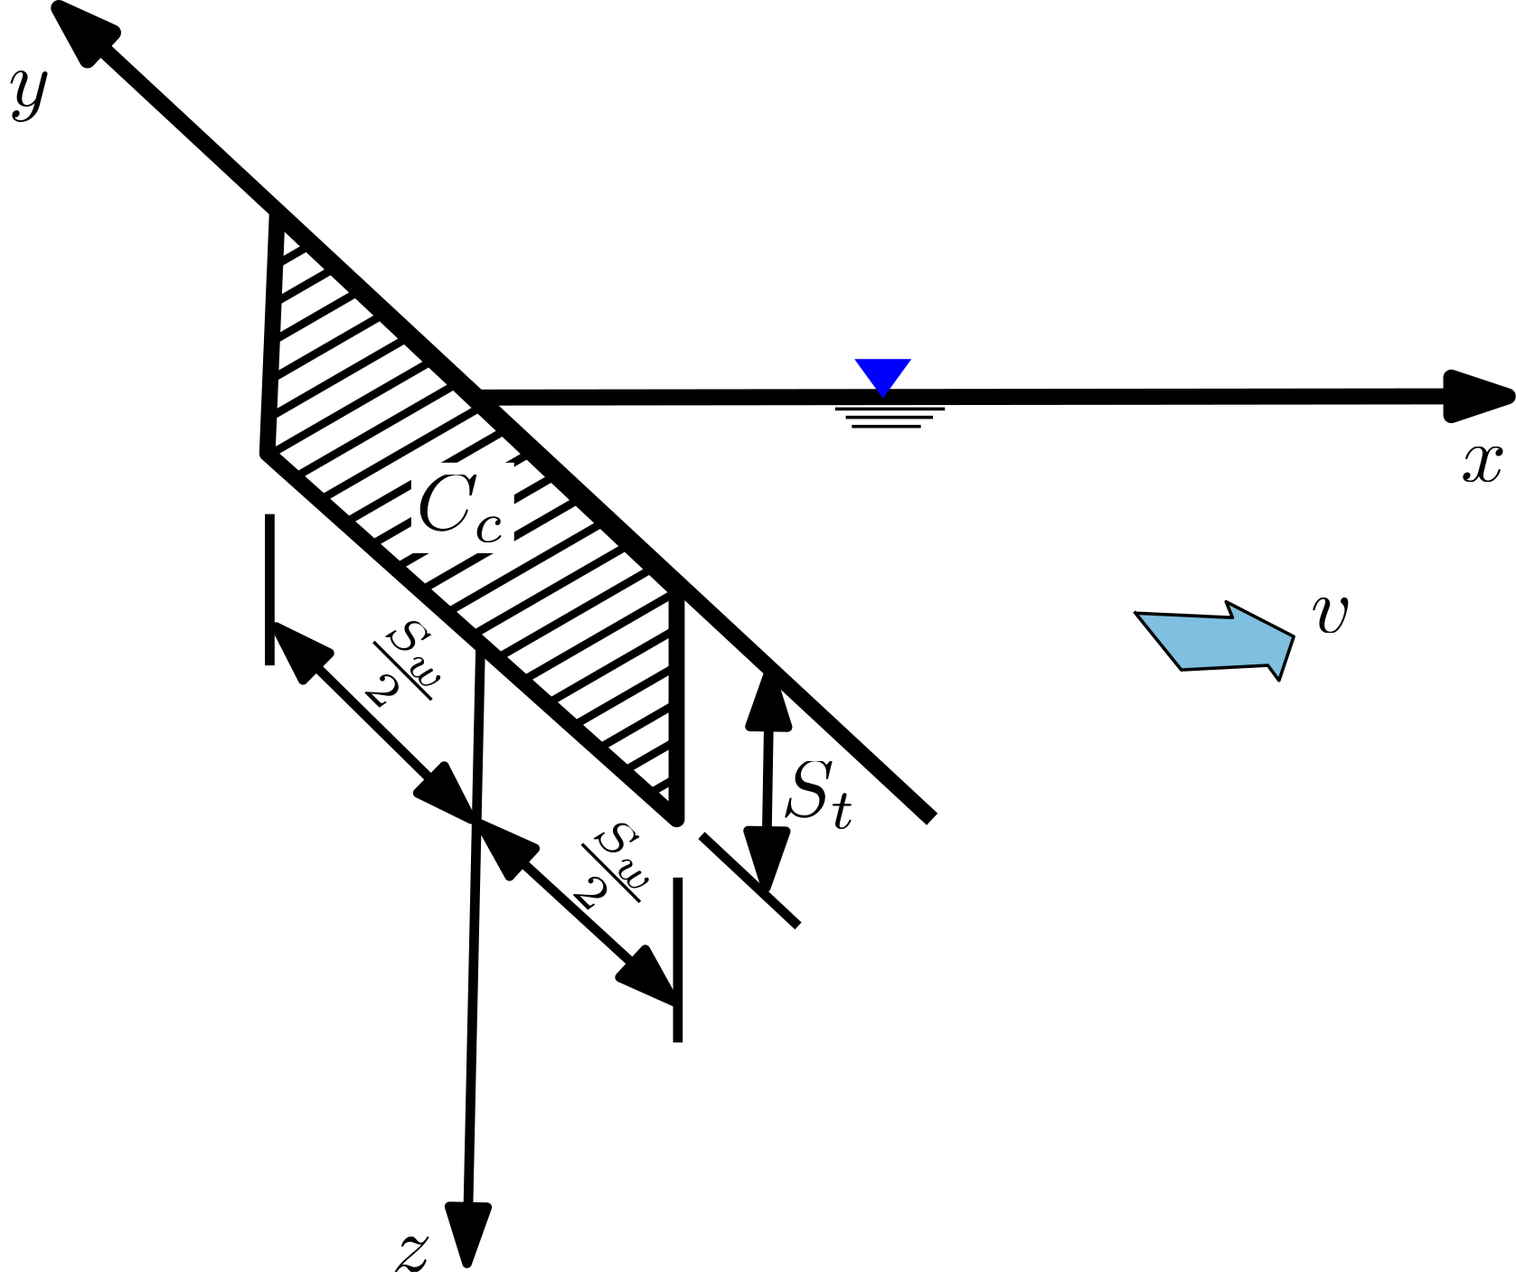
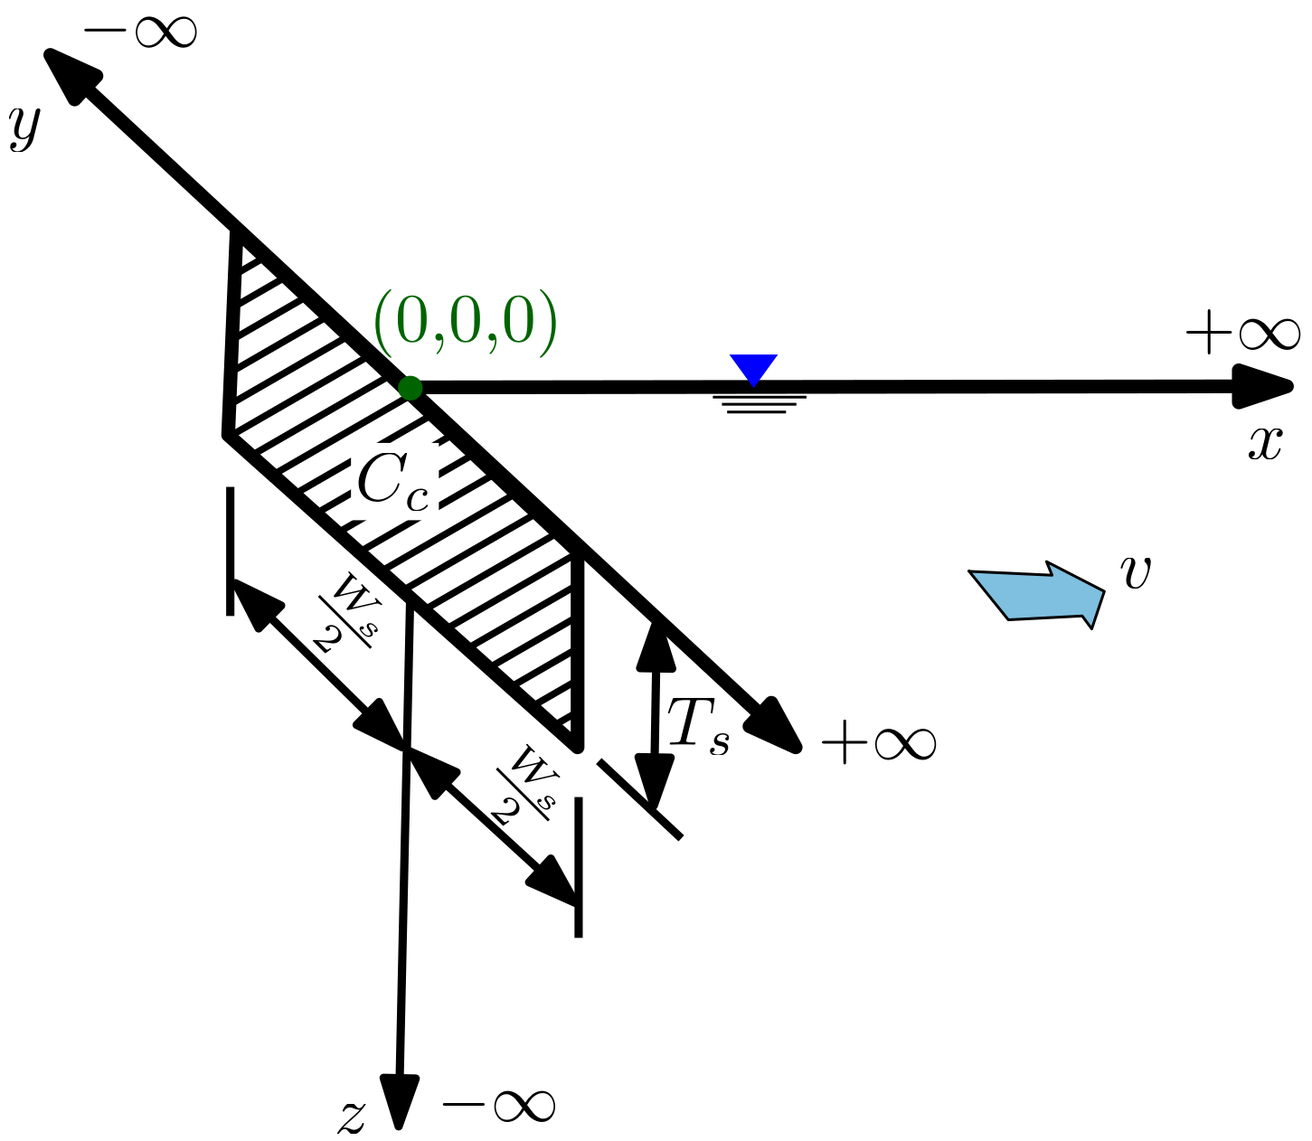
BIOSCREEN conceptual figure from the manual; subscript is lowercase
Replaces static/images/conceptual_bioscreen.png with fig3.6-i from the manual.
Same diagram, current notation: T_s and W_s where the old one had S_t and S_w,
plus the origin and the axis limits. The file is shared with the BIOSCREEN
single and multiple workbench pages, so all three now show it - leaving them on
the old drawing would have contradicted the symbol they display.

The subscript follows it down to lowercase: T_s, not T_S. That is how the
figure writes it, and how the request did.

diff --git a/templates/about_birla.html b/templates/about_birla.html
@@ -27,11 +27,11 @@ of numerical simulations (MODFLOW&ndash;MTSDMS).</p>
     <mo>=</mo>
     <mrow>
       <mo>(</mo>
-      <mn>1</mn><mo>&minus;</mo><mn>0.047</mn><msup><msub><mi>T</mi><mi>S</mi></msub><mn>0.404</mn></msup><msup><msub><mi>R</mi><mi>c</mi></msub><mn>1.883</mn></msup>
+      <mn>1</mn><mo>&minus;</mo><mn>0.047</mn><msup><msub><mi>T</mi><mi>s</mi></msub><mn>0.404</mn></msup><msup><msub><mi>R</mi><mi>c</mi></msub><mn>1.883</mn></msup>
       <mo>)</mo>
     </mrow>
     <mfrac>
-      <mrow><mn>4</mn><msup><msub><mi>T</mi><mi>S</mi></msub><mn>2</mn></msup></mrow>
+      <mrow><mn>4</mn><msup><msub><mi>T</mi><mi>s</mi></msub><mn>2</mn></msup></mrow>
       <mrow><msup><mi>&pi;</mi><mn>2</mn></msup><msub><mi>&alpha;</mi><mi>Tv</mi></msub></mrow>
     </mfrac>
     <mi>ln</mi><mo>&#8289;</mo>
@@ -49,7 +49,7 @@ of numerical simulations (MODFLOW&ndash;MTSDMS).</p>
 {% endblock %}
 
 {% block about_parameters %}
-<dt><math><msub><mi>T</mi><mi>S</mi></msub></math></dt><dd>Source thickness (equal to aquifer thickness) (m)</dd>
+<dt><math><msub><mi>T</mi><mi>s</mi></msub></math></dt><dd>Source thickness (equal to aquifer thickness) (m)</dd>
 <dt><math><msub><mi>&alpha;</mi><mi>Tv</mi></msub></math></dt><dd>Vertical transverse dispersivity (m)</dd>
 <dt><math><msub><mi>R</mi><mi>c</mi></msub></math></dt><dd>Recharge rate (m/yr)</dd>
 <dt><math><mi>&gamma;</mi></math></dt><dd>Stoichiometry coefficient (-)</dd>

diff --git a/templates/about_liedl3d.html b/templates/about_liedl3d.html
@@ -39,7 +39,7 @@ any chosen contour along the <math><mi>x</mi></math>-axis.</p>
       <mrow>
         <mo>−</mo><msub title="Transverse vertical dispersivity [L]"><mi>α</mi><mrow><mi>T</mi><mi>v</mi></mrow></msub><msub title="Maximum plume length [L]"><mi>L</mi><mi mathvariant="normal">max</mi></msub>
         <msup>
-          <mrow><mo>(</mo><mfrac><mi>π</mi><mrow><mn>2</mn><msub title="Source thickness [L]"><mi>T</mi><mi>S</mi></msub></mrow></mfrac><mo>)</mo></mrow>
+          <mrow><mo>(</mo><mfrac><mi>π</mi><mrow><mn>2</mn><msub title="Source thickness [L]"><mi>T</mi><mi>s</mi></msub></mrow></mfrac><mo>)</mo></mrow>
           <mn>2</mn>
         </msup>
       </mrow>
@@ -61,7 +61,7 @@ Newton's method.</p>
 {% endblock %}
 
 {% block about_parameters %}
-<dt><math><msub><mi>T</mi><mi>S</mi></msub></math></dt><dd>Source thickness [L]</dd>
+<dt><math><msub><mi>T</mi><mi>s</mi></msub></math></dt><dd>Source thickness [L]</dd>
 <dt><math><msub><mi>S</mi><mi>W</mi></msub></math></dt><dd>Source width [L]</dd>
 <dt><math><msub><mi>α</mi><mrow><mi>T</mi><mi>h</mi></mrow></msub></math></dt><dd>Transverse horizontal dispersivity [L]</dd>
 <dt><math><msub><mi>α</mi><mrow><mi>T</mi><mi>v</mi></mrow></msub></math></dt><dd>Transverse vertical dispersivity [L]</dd>

diff --git a/templates/about_liedl.html b/templates/about_liedl.html
@@ -38,7 +38,7 @@ reaction confined to the plume fringe.</p>
     <msub title="Maximum steady-state plume length [L]"><mi>L</mi><mi mathvariant="normal">max</mi></msub>
     <mo>=</mo>
     <mfrac>
-      <mrow><mn>4</mn><msup><msub title="Source thickness [L]"><mi>T</mi><mi>S</mi></msub><mn>2</mn></msup></mrow>
+      <mrow><mn>4</mn><msup><msub title="Source thickness [L]"><mi>T</mi><mi>s</mi></msub><mn>2</mn></msup></mrow>
       <mrow><msup><mi>π</mi><mn>2</mn></msup><msub title="Transverse vertical dispersivity [L]"><mi>α</mi><mrow><mi>T</mi><mi>v</mi></mrow></msub></mrow>
     </mfrac>
     <mi>ln</mi><mo>&#8289;</mo>
@@ -56,7 +56,7 @@ reaction confined to the plume fringe.</p>
 {% endblock %}
 
 {% block about_parameters %}
-<dt><math><msub><mi>T</mi><mi>S</mi></msub></math></dt><dd>Source thickness [L]</dd>
+<dt><math><msub><mi>T</mi><mi>s</mi></msub></math></dt><dd>Source thickness [L]</dd>
 <dt><math><msub><mi>α</mi><mrow><mi>T</mi><mi>v</mi></mrow></msub></math></dt><dd>Transverse vertical dispersivity [L]</dd>
 <dt><math><mi>γ</mi></math></dt><dd>Stoichiometry ratio [-]</dd>
 <dt><math><msubsup><mi>C</mi><mi>D</mi><mn>0</mn></msubsup></math></dt><dd>Donor concentration at source [ML⁻³]</dd>

diff --git a/templates/panel_numerical_vertical_single.html b/templates/panel_numerical_vertical_single.html
@@ -32,7 +32,7 @@
     <p class="small">The simulation domain is sized from the analytical solution, so you never enter it. The maximum plume length is <i>L</i><sub>max</sub> = (4&nbsp;<i>T</i><sub>A</sub>²) / (π²&nbsp;α<sub>Tv</sub>)&nbsp;·&nbsp;ln[(4γ<i>C</i><sub>D</sub>&nbsp;+&nbsp;<i>C</i><sub>A</sub>) / (π&nbsp;<i>C</i><sub>A</sub>)] (vertical Liedl-type solution, using aquifer thickness <i>T</i><sub>A</sub>, vertical transverse dispersivity α<sub>Tv</sub>, donor/acceptor concentrations and γ). <b>Domain Length <i>L</i><sub>D</sub></b> = 1.5&nbsp;·&nbsp;<i>L</i><sub>max</sub> (a 50% downstream margin).</p>
   </div>
   {% endif %}
-  <p class="small conceptual-note">Vertical configuration: cross-section (<i>x</i>, <i>z</i>) with aquifer thickness <i>T</i><sub>A</sub>, source thickness <i>T</i><sub>S</sub>, and vertical transverse dispersivity α<sub>Tv</sub>.</p>
+  <p class="small conceptual-note">Vertical configuration: cross-section (<i>x</i>, <i>z</i>) with aquifer thickness <i>T</i><sub>A</sub>, source thickness <i>T</i><sub>s</sub>, and vertical transverse dispersivity α<sub>Tv</sub>.</p>
   </div>
 </div>
 {% endblock %}

diff --git a/templates/about_maier.html b/templates/about_maier.html
@@ -28,7 +28,7 @@ using a numerical model.</p>
     <msub><mi>L</mi><mi>max</mi></msub>
     <mo>=</mo>
     <mn>0.5</mn>
-    <mfrac><msup><msub><mi>T</mi><mi>S</mi></msub><mn>2</mn></msup><msub><mi>&alpha;</mi><mi>Tv</mi></msub></mfrac>
+    <mfrac><msup><msub><mi>T</mi><mi>s</mi></msub><mn>2</mn></msup><msub><mi>&alpha;</mi><mi>Tv</mi></msub></mfrac>
     <msup>
       <mrow>
         <mo>(</mo>
@@ -45,7 +45,7 @@ using a numerical model.</p>
 {% endblock %}
 
 {% block about_parameters %}
-<dt><math><msub><mi>T</mi><mi>S</mi></msub></math></dt><dd>Source thickness (equal to aquifer thickness) (m)</dd>
+<dt><math><msub><mi>T</mi><mi>s</mi></msub></math></dt><dd>Source thickness (equal to aquifer thickness) (m)</dd>
 <dt><math><msub><mi>&alpha;</mi><mi>Tv</mi></msub></math></dt><dd>Vertical transverse dispersivity (m)</dd>
 <dt><math><mi>&gamma;</mi></math></dt><dd>Stoichiometry coefficient (-)</dd>
 <dt><math><msubsup><mi>C</mi><mi>A</mi><mn>0</mn></msubsup></math></dt><dd>Acceptor concentration at source (mg/L)</dd>

diff --git a/templates/about_bioscreen.html b/templates/about_bioscreen.html
@@ -28,7 +28,7 @@
 <dt><math><msubsup><mi>C</mi><mi>D</mi><mn>0</mn></msubsup></math></dt><dd>Contamination concentration [ML&#8315;&#179;]</dd>
 <dt><math><msub><mi>C</mi><mi>D</mi></msub></math></dt><dd>General contaminant concentration [ML&#8315;&#179;]</dd>
 <dt><math><msub><mi>S</mi><mi>W</mi></msub></math></dt><dd>Source width [L]</dd>
-<dt><math><msub><mi>T</mi><mi>S</mi></msub></math></dt><dd>Source thickness (depth) [L]</dd>
+<dt><math><msub><mi>T</mi><mi>s</mi></msub></math></dt><dd>Source thickness (depth) [L]</dd>
 <dt><math><mi>v</mi></math></dt><dd>Groundwater seepage velocity [LT&#8315;&#185;]</dd>
 <dt><math><msub><mi>&#945;</mi><mi>L</mi></msub></math>, <math><msub><mi>&#945;</mi><mi>Th</mi></msub></math>, <math><msub><mi>&#945;</mi><mi>Tv</mi></msub></math></dt><dd>Longitudinal, horizontal-transverse, and vertical-transverse dispersivity [L]</dd>
 <dt><math><mi>R</mi></math></dt><dd>Retardation factor [-]</dd>

diff --git a/param_meta.py b/param_meta.py
@@ -119,14 +119,14 @@ _MODEL_DISPLAY_NAMES = {
 }
 
 _MODEL_SYMBOLS = {
-    "liedl": {"M": "<i>T</i><sub>S</sub>"},
-    "liedl3d": {"M": "<i>T</i><sub>S</sub>", "W": "<i>S</i><sub>W</sub>", "Cthres": "<i>C</i><sub>thres</sub>"},
+    "liedl": {"M": "<i>T</i><sub>s</sub>"},
+    "liedl3d": {"M": "<i>T</i><sub>s</sub>", "W": "<i>S</i><sub>W</sub>", "Cthres": "<i>C</i><sub>thres</sub>"},
     "chu": {"W": "<i>S</i><sub>W</sub>"},
     "ham": {"Q": "<i>q</i>", "alpha_T": "&alpha;<sub>Th</sub>"},
-    "bioscreen": {"Cthres": "<i>C</i><sub>thres</sub>", "time": "<i>t</i>", "H": "<i>T</i><sub>S</sub>", "c0": "<i>C</i><sub>D</sub><sup>0</sup>", "W": "<i>S</i><sub>W</sub>", "Df": "<i>D</i><sub>f</sub>", "gamma": "&Gamma;", "lam": "&lambda;<sub>e</sub>", "ng": "<i>n</i><sub>g</sub>"},
+    "bioscreen": {"Cthres": "<i>C</i><sub>thres</sub>", "time": "<i>t</i>", "H": "<i>T</i><sub>s</sub>", "c0": "<i>C</i><sub>D</sub><sup>0</sup>", "W": "<i>S</i><sub>W</sub>", "Df": "<i>D</i><sub>f</sub>", "gamma": "&Gamma;", "lam": "&lambda;<sub>e</sub>", "ng": "<i>n</i><sub>g</sub>"},
     "cirpka": {"Sw": "<i>S</i><sub>w</sub>", "C_A": "<i>C</i><sub>A</sub><sup>0</sup>", "C_D": "<i>C</i><sub>D</sub><sup>0</sup>"},
-    "maier": {"M": "<i>T</i><sub>S</sub>", "Ca": "<i>C</i><sub>A</sub><sup>0</sup>", "Cd": "<i>C</i><sub>D</sub><sup>0</sup>"},
-    "birla": {"M": "<i>T</i><sub>S</sub>", "Ca": "<i>C</i><sub>A</sub><sup>0</sup>", "Cd": "<i>C</i><sub>D</sub><sup>0</sup>"},
+    "maier": {"M": "<i>T</i><sub>s</sub>", "Ca": "<i>C</i><sub>A</sub><sup>0</sup>", "Cd": "<i>C</i><sub>D</sub><sup>0</sup>"},
+    "birla": {"M": "<i>T</i><sub>s</sub>", "Ca": "<i>C</i><sub>A</sub><sup>0</sup>", "Cd": "<i>C</i><sub>D</sub><sup>0</sup>"},
 }
 
 _TABLE_TITLES = {
@@ -157,13 +157,13 @@ _TABLE_TITLES = {
 }
 
 _CONTEXT_TABLE_TITLES = {
-    "liedl": {"M": "Source Thickness T_S [m]", "alpha_Tv": "Vertical Transverse Dispersivity α_Tv [m]", "gamma": "Stoichiometric Ratio γ [-]", "C_EA0": "Acceptor Concentration at Source C_A^0 [mg/L]", "C_ED0": "Donor Concentration at Source C_D^0 [mg/L]"},
-    "liedl3d": {"M": "Source Thickness T_S [m]", "W": "Source Width S_W [m]", "alpha_Th": "Horizontal Transverse Dispersivity α_Th [m]", "alpha_Tv": "Vertical Transverse Dispersivity α_Tv [m]", "gamma": "Stoichiometric Ratio γ [-]", "Cthres": "Threshold Donor Concentration C_thres [mg/L]", "C_EA0": "Acceptor Concentration at Source C_A^0 [mg/L]", "C_ED0": "Donor Concentration at Source C_D^0 [mg/L]"},
+    "liedl": {"M": "Source Thickness T_s [m]", "alpha_Tv": "Vertical Transverse Dispersivity α_Tv [m]", "gamma": "Stoichiometric Ratio γ [-]", "C_EA0": "Acceptor Concentration at Source C_A^0 [mg/L]", "C_ED0": "Donor Concentration at Source C_D^0 [mg/L]"},
+    "liedl3d": {"M": "Source Thickness T_s [m]", "W": "Source Width S_W [m]", "alpha_Th": "Horizontal Transverse Dispersivity α_Th [m]", "alpha_Tv": "Vertical Transverse Dispersivity α_Tv [m]", "gamma": "Stoichiometric Ratio γ [-]", "Cthres": "Threshold Donor Concentration C_thres [mg/L]", "C_EA0": "Acceptor Concentration at Source C_A^0 [mg/L]", "C_ED0": "Donor Concentration at Source C_D^0 [mg/L]"},
     "chu": {"W": "Source Width S_W [m]", "alpha_Th": "Horizontal Transverse Dispersivity α_Th [m]", "gamma": "Stoichiometric Ratio γ [-]", "C_EA0": "Acceptor Concentration at Source C_A^0 [mg/L]", "C_ED0": "Donor Concentration at Source C_D^0 [mg/L]", "epsilon": "Biological Concentration Factor ε [mg/L]"},
     "ham": {"Q": "Source Flux q [m²/yr]", "alpha_T": "Horizontal Transverse Dispersivity α_Th [m]", "gamma": "Stoichiometric Ratio γ [-]", "C_EA0": "Acceptor Concentration at Source C_A^0 [mg/L]", "C_ED0": "Donor Concentration at Source C_D^0 [mg/L]"},
     "cirpka": {"Sw": "Source Width S_w [m]", "alpha_Th": "Horizontal Transverse Dispersivity α_Th [m]", "gamma": "Stoichiometric Ratio γ [-]", "C_A": "Acceptor Concentration at Source C_A^0 [mg/L]", "C_D": "Donor Concentration at Source C_D^0 [mg/L]"},
-    "maier": {"M": "Source Thickness T_S [m]", "tv": "Vertical Transverse Dispersivity α_Tv [m]", "g": "Stoichiometry Coefficient γ [-]", "Ca": "Acceptor Concentration at Source C_A^0 [mg/L]", "Cd": "Donor Concentration at Source C_D^0 [mg/L]"},
-    "birla": {"M": "Source Thickness T_S [m]", "tv": "Vertical Transverse Dispersivity α_Tv [m]", "R": "Recharge Rate R_c [m/yr]", "g": "Stoichiometry Coefficient γ [-]", "Ca": "Acceptor Concentration at Source C_A^0 [mg/L]", "Cd": "Donor Concentration at Source C_D^0 [mg/L]"},
+    "maier": {"M": "Source Thickness T_s [m]", "tv": "Vertical Transverse Dispersivity α_Tv [m]", "g": "Stoichiometry Coefficient γ [-]", "Ca": "Acceptor Concentration at Source C_A^0 [mg/L]", "Cd": "Donor Concentration at Source C_D^0 [mg/L]"},
+    "birla": {"M": "Source Thickness T_s [m]", "tv": "Vertical Transverse Dispersivity α_Tv [m]", "R": "Recharge Rate R_c [m/yr]", "g": "Stoichiometry Coefficient γ [-]", "Ca": "Acceptor Concentration at Source C_A^0 [mg/L]", "Cd": "Donor Concentration at Source C_D^0 [mg/L]"},
     "numerical_vertical": {"grid_size": "Grid Spacing Δx = Δz [m]"},
 }
 
@@ -177,8 +177,8 @@ _TABLE_SYMBOL_MARKUP = {
     "α_Tv": "&alpha;<sub>Tv</sub>",
     "α_Th": "&alpha;<sub>Th</sub>",
     "α_L": "&alpha;<sub>L</sub>",
-    "T_S": "<i>T</i><sub>S</sub>",
-    "S_T": "<i>T</i><sub>S</sub>",
+    "T_s": "<i>T</i><sub>s</sub>",
+    "S_T": "<i>T</i><sub>s</sub>",
     "S_W": "<i>S</i><sub>W</sub>",
     "S_w": "<i>S</i><sub>w</sub>",
     "R_c": "<i>R</i><sub>c</sub>",

diff --git a/panel_site_comparison.py b/panel_site_comparison.py
@@ -42,7 +42,7 @@ MODEL_SPECS = {
         "args": ("M", "alpha_Tv", "gamma", "C_A", "C_D"),
         "defaults": {"M": 2.0, "alpha_Tv": 0.001, "gamma": 3.5, "C_A": 8.0, "C_D": 5.0},
         "report": (
-            ("M", "T_S", "Source Thickness", "m"),
+            ("M", "T_s", "Source Thickness", "m"),
             ("alpha_Tv", "alpha_Tv", "Vertical Transverse Dispersivity", "m"),
             ("gamma", "gamma", "Stoichiometric Ratio", "-"),
             ("C_D", "C_D0", "Donor Concentration at Source", "mg/L"),
@@ -56,7 +56,7 @@ MODEL_SPECS = {
         "defaults": {"M": 10.0, "alpha_Th": 0.01, "alpha_Tv": 0.01, "S_w": 7.0,
                      "Cthres": 0.5, "C_A": 8.0, "C_D": 5.0, "gamma": 3.0},
         "report": (
-            ("M", "T_S", "Source Thickness", "m"),
+            ("M", "T_s", "Source Thickness", "m"),
             ("S_w", "S_W", "Source Width", "m"),
             ("alpha_Th", "alpha_Th", "Horizontal Transverse Dispersivity", "m"),
             ("alpha_Tv", "alpha_Tv", "Vertical Transverse Dispersivity", "m"),
@@ -118,7 +118,7 @@ MODEL_SPECS = {
         "report": (
             ("Cthres", "C_thres", "Threshold Contaminant Concentration", "mg/L"),
             ("time", "t", "Simulation Time", "yr"),
-            ("M", "T_S", "Source Thickness", "m"),
+            ("M", "T_s", "Source Thickness", "m"),
             ("C_D", "C_D0", "Contamination Concentration", "mg/L"),
             ("S_w", "S_W", "Source Width", "m"),
             ("v", "v", "Groundwater Seepage Velocity", "m/yr"),
@@ -138,7 +138,7 @@ MODEL_SPECS = {
         "args": ("M", "alpha_Tv", "gamma", "C_A", "C_D"),
         "defaults": {"M": 5.0, "alpha_Tv": 0.01, "gamma": 3.5, "C_A": 8.0, "C_D": 5.0},
         "report": (
-            ("M", "T_S", "Source Thickness", "m"),
+            ("M", "T_s", "Source Thickness", "m"),
             ("alpha_Tv", "alpha_Tv", "Vertical Transverse Dispersivity", "m"),
             ("gamma", "gamma", "Stoichiometry Ratio", "-"),
             ("C_A", "C_A0", "Acceptor Concentration at Source", "mg/L"),
@@ -152,7 +152,7 @@ MODEL_SPECS = {
         "defaults": {"M": 2.0, "alpha_Tv": 0.001, "gamma": 3.5, "C_A": 8.0,
                      "C_D": 5.0, "R": 1.0},
         "report": (
-            ("M", "T_S", "Source Thickness", "m"),
+            ("M", "T_s", "Source Thickness", "m"),
             ("alpha_Tv", "alpha_Tv", "Vertical Transverse Dispersivity", "m"),
             ("R", "R_c", "Recharge Rate", "m/yr"),
             ("gamma", "gamma", "Stoichiometry Ratio", "-"),

diff --git a/analytical_routes.py b/analytical_routes.py
@@ -444,7 +444,7 @@ def liedl_single_export():
     report = CASTReport("Liedl et al. (2005) — Single Simulation", "Liedl et al. (2005)")
     pdf_bytes = report.generate(
         parameters=[
-            {"symbol": "T_S", "name": "Source Thickness", "value": m, "unit": "m"},
+            {"symbol": "T_s", "name": "Source Thickness", "value": m, "unit": "m"},
             {"symbol": "alpha_Tv", "name": "Vertical Transverse Dispersivity", "value": alpha_tv, "unit": "m"},
             {"symbol": "gamma", "name": "Stoichiometric Ratio", "value": gamma, "unit": "-"},
             {"symbol": "C_A0", "name": "Acceptor Concentration at Source", "value": c_ea0, "unit": "mg/L"},
@@ -614,7 +614,7 @@ def bioscreen_single_export():
         parameters=[
             {"symbol": "C_thres", "name": "Threshold Contaminant Concentration", "value": cthres, "unit": "mg/L"},
             {"symbol": "t", "name": "Simulation Time", "value": time_val, "unit": "yr"},
-            {"symbol": "T_S", "name": "Source Thickness", "value": h, "unit": "m"},
+            {"symbol": "T_s", "name": "Source Thickness", "value": h, "unit": "m"},
             {"symbol": "C_D0", "name": "Contamination Concentration", "value": c0, "unit": "mg/L"},
             {"symbol": "S_W", "name": "Source Width", "value": w, "unit": "m"},
             {"symbol": "v", "name": "Groundwater Seepage Velocity", "value": v, "unit": "m/yr"},
@@ -675,7 +675,7 @@ def liedl3d_single_export():
     report = CASTReport("Liedl 3D (2011) — Single Simulation", "Liedl 3D (2011)")
     pdf_bytes = report.generate(
         parameters=[
-            {"symbol": "T_S", "name": "Source Thickness", "value": m, "unit": "m"},
+            {"symbol": "T_s", "name": "Source Thickness", "value": m, "unit": "m"},
             {"symbol": "alpha_Th", "name": "Horizontal Transverse Dispersivity", "value": alpha_th, "unit": "m"},
             {"symbol": "alpha_Tv", "name": "Vertical Transverse Dispersivity", "value": alpha_tv, "unit": "m"},
             {"symbol": "S_W", "name": "Source Width", "value": w, "unit": "m"},

diff --git a/tests/test_var_sym_conventions.py b/tests/test_var_sym_conventions.py
@@ -36,7 +36,7 @@ def test_scenario_tables_use_the_same_display_notation():
 
 def test_model_pages_use_about_page_names_and_symbols():
     cases = [
-        ("panel_liedl_single", "M", "Aquifer Thickness [m]", "Source Thickness [m]", "<i>T</i><sub>S</sub>"),
+        ("panel_liedl_single", "M", "Aquifer Thickness [m]", "Source Thickness [m]", "<i>T</i><sub>s</sub>"),
         ("panel_chu_single", "W", "Source Width [m]", "Source Width [m]", "<i>S</i><sub>W</sub>"),
         ("panel_ham_single", "alpha_T", "Transverse Dispersivity [m]", "Horizontal Transverse Dispersivity [m]", "&alpha;<sub>Th</sub>"),
         ("panel_cirpka_single", "C_A", "Electron Acceptor [mg/L]", "Acceptor Concentration at Source [mg/L]", "<i>C</i><sub>A</sub><sup>0</sup>"),
@@ -53,7 +53,7 @@ def test_model_pages_use_about_page_names_and_symbols():
 
 def test_multiple_table_headers_follow_about_pages():
     assert table_titles(["M", "alpha_Tv", "C_ED0"], context="liedl") == {
-        "M": "Source Thickness T_S [m]",
+        "M": "Source Thickness T_s [m]",
         "alpha_Tv": "Vertical Transverse Dispersivity α_Tv [m]",
         "C_ED0": "Donor Concentration at Source C_D^0 [mg/L]",
     }
@@ -62,7 +62,7 @@ def test_multiple_table_headers_follow_about_pages():
         "alpha_T": "Horizontal Transverse Dispersivity α_Th [m]",
     }
     assert table_titles(["M", "Ca", "Cd", "R"], context="birla") == {
-        "M": "Source Thickness T_S [m]",
+        "M": "Source Thickness T_s [m]",
         "Ca": "Acceptor Concentration at Source C_A^0 [mg/L]",
         "Cd": "Donor Concentration at Source C_D^0 [mg/L]",
         "R": "Recharge Rate R_c [m/yr]",
@@ -71,7 +71,7 @@ def test_multiple_table_headers_follow_about_pages():
         "g": "Stoichiometry Coefficient γ [-]"
     }
     assert table_titles(["M", "C_ED0"], context="liedl", html=True) == {
-        "M": "Source Thickness <i>T</i><sub>S</sub> [m]",
+        "M": "Source Thickness <i>T</i><sub>s</sub> [m]",
         "C_ED0": "Donor Concentration at Source <i>C</i><sub>D</sub><sup>0</sup> [mg/L]",
     }
 

diff --git a/bioscreen_panel.py b/bioscreen_panel.py
@@ -18,7 +18,7 @@ pn.extension(sizing_mode="stretch_width")
 def _base_widgets():
     cthres = pn.widgets.FloatInput(name="Threshold Contaminant Concentration C_thres [mg/L]", value=query_float("Cthres", 5e-5), step=1e-5, start=1e-8)
     time = pn.widgets.IntInput(name="Simulation Time t [a]", value=query_int("time", 20), start=1, end=1000)
-    h = pn.widgets.FloatSlider(name="Source Thickness T_S [m]", value=query_float("H", 6.1), start=0.1, end=50, step=0.1)
+    h = pn.widgets.FloatSlider(name="Source Thickness T_s [m]", value=query_float("H", 6.1), start=0.1, end=50, step=0.1)
     c0 = pn.widgets.FloatSlider(name="Contamination Concentration C_D^0 [mg/L]", value=query_float("c0", 106.35), start=0.1, end=1000, step=1)
     w = pn.widgets.FloatSlider(name="Source Width S_W [m]", value=query_float("W", 20), start=0.1, end=1000, step=0.1)
     v = pn.widgets.FloatInput(name="Groundwater Seepage Velocity v [m/a]", value=query_float("v", 292), start=10, end=1000)
@@ -84,7 +84,7 @@ def bioscreen_single_app():
                 "parameters": [
                     {"symbol": "C_thres", "name": "Threshold Contaminant Concentration", "value": cthres.value, "unit": "mg/L"},
                     {"symbol": "t", "name": "Time", "value": time.value, "unit": "yr"},
-                    {"symbol": "T_S", "name": "Source Thickness", "value": h.value, "unit": "m"},
+                    {"symbol": "T_s", "name": "Source Thickness", "value": h.value, "unit": "m"},
                     {"symbol": "C_D0", "name": "Contamination Concentration", "value": c0.value, "unit": "mg/L"},
                     {"symbol": "S_W", "name": "Source Width", "value": w.value, "unit": "m"},
                     {"symbol": "v", "name": "Groundwater Seepage Velocity", "value": v.value, "unit": "m/yr"},

diff --git a/panel_liedl_single.py b/panel_liedl_single.py
@@ -15,7 +15,7 @@ pn.extension(sizing_mode="stretch_width")
 
 
 def liedl_single_app():
-    m = pn.widgets.FloatInput(name="Source Thickness T_S [m]", value=query_float("M", 2.0), step=0.1)
+    m = pn.widgets.FloatInput(name="Source Thickness T_s [m]", value=query_float("M", 2.0), step=0.1)
     alpha_tv = pn.widgets.FloatInput(name="Vertical Transverse Dispersivity \u03b1_Tv [m]", value=query_float("alpha_Tv", 0.001), step=0.0001)
     gamma = pn.widgets.FloatInput(name="Stoichiometry Ratio \u03b3 [-]", value=query_float("gamma", 3.5), step=0.1)
     c_ea0 = pn.widgets.FloatInput(name="Acceptor Concentration at Source C_A^0 [mg/L]", value=query_float("C_EA0", 8.0), step=0.1)
@@ -59,7 +59,7 @@ def liedl_single_app():
             plot_pane.object = plot
             _state.update({
                 "parameters": [
-                    {"symbol": "T_S", "name": "Source Thickness", "value": m.value, "unit": "m"},
+                    {"symbol": "T_s", "name": "Source Thickness", "value": m.value, "unit": "m"},
                     {"symbol": "alpha_Tv", "name": "Vertical Transverse Dispersivity", "value": alpha_tv.value, "unit": "m"},
                     {"symbol": "gamma", "name": "Stoichiometry Ratio", "value": gamma.value, "unit": "-"},
                     {"symbol": "C_A0", "name": "Acceptor Concentration at Source", "value": c_ea0.value, "unit": "mg/L"},
